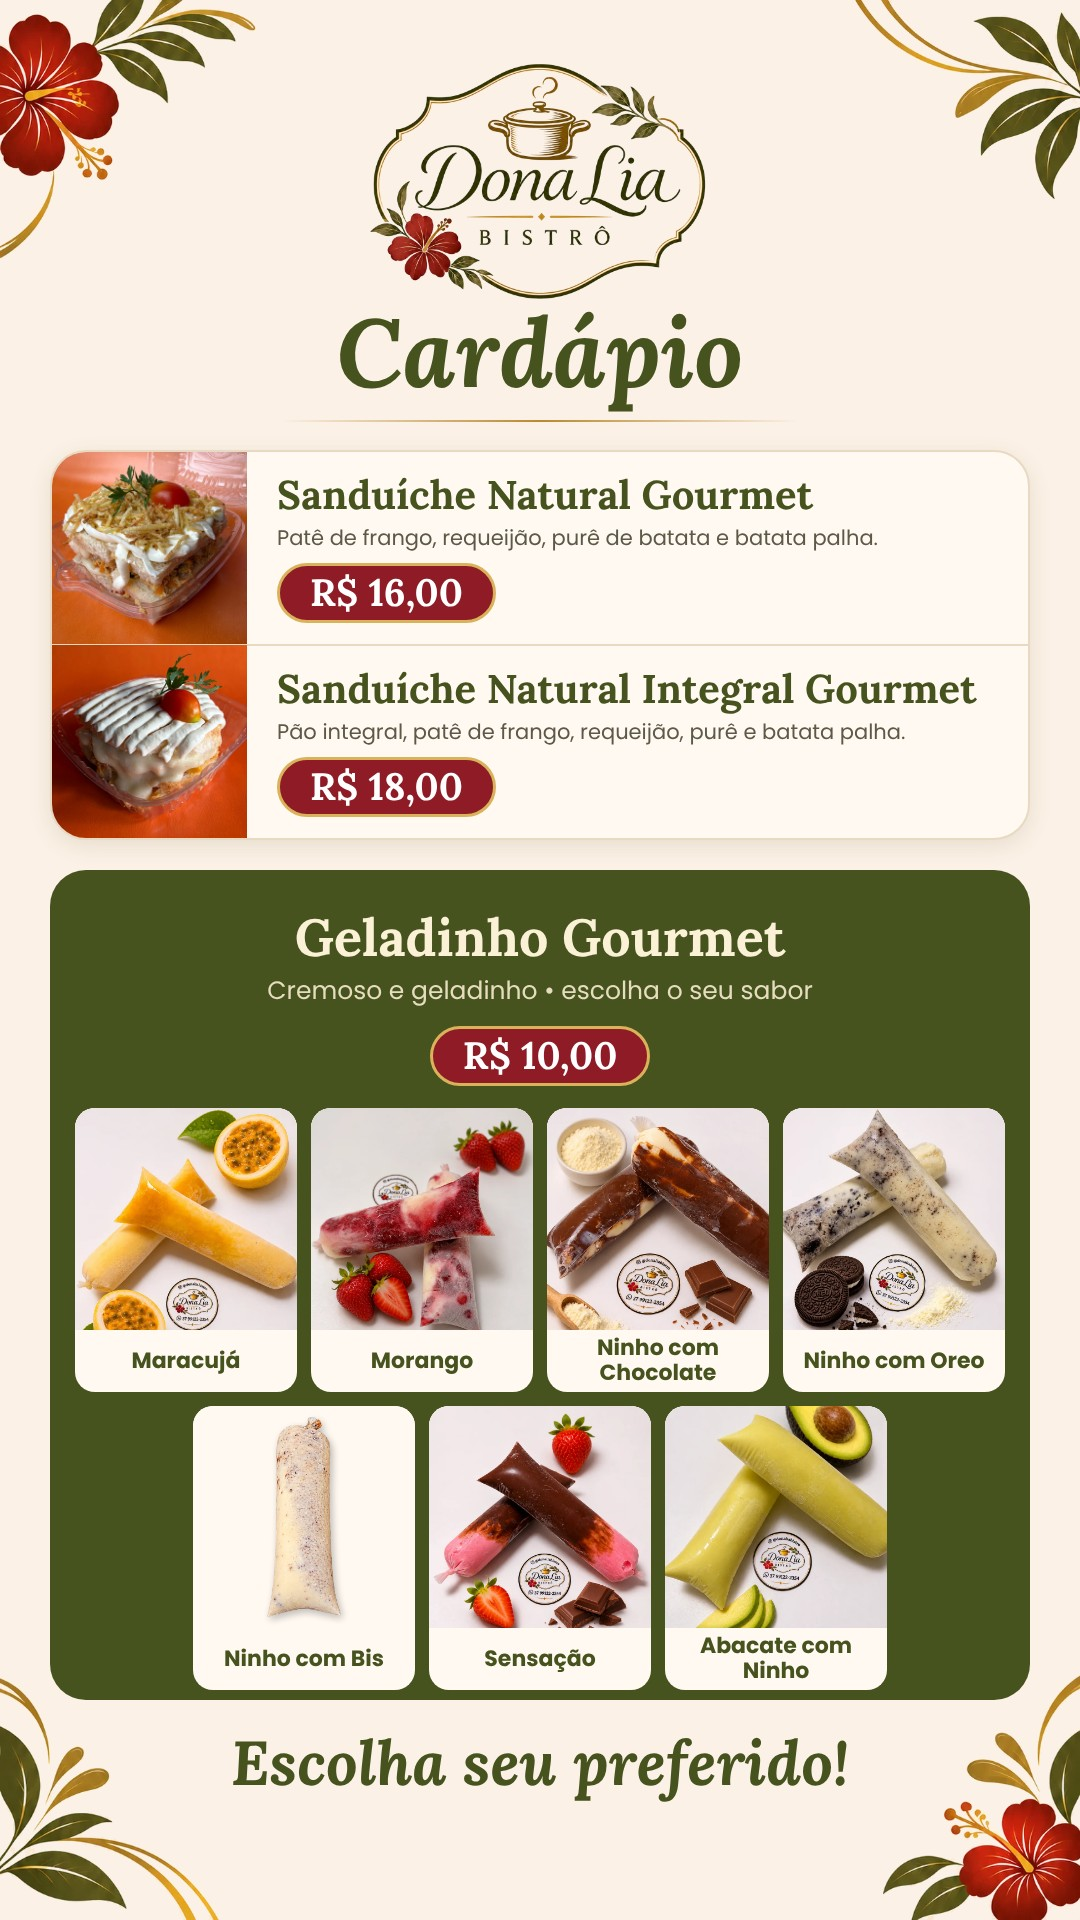
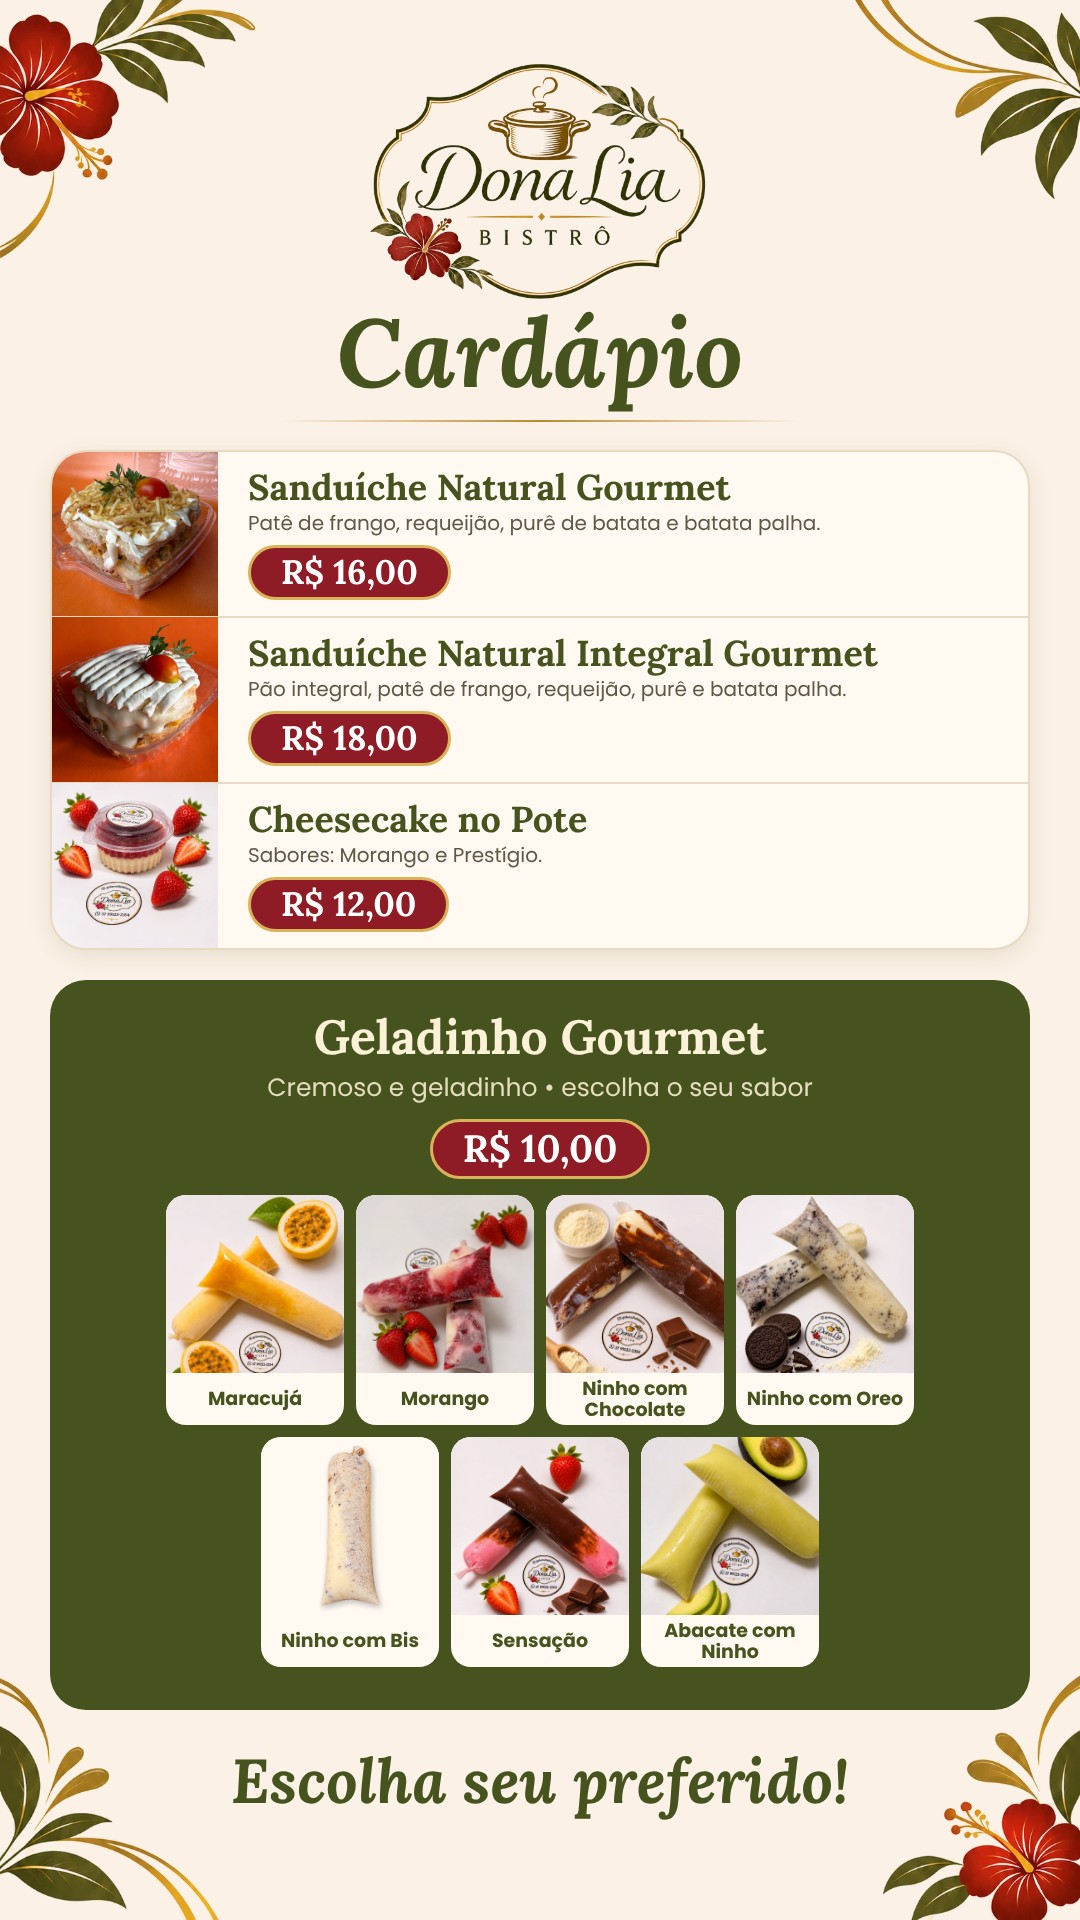
Cardápio (imagem), página Cardápio e Links com Cheesecake
Claude-Session: https://claude.ai/code/session_01L7RU4Qf6ipUkkZnfFHStMk

diff --git a/cardapio/index.html b/cardapio/index.html
@@ -2,8 +2,8 @@
 <html lang="pt-BR"><head><meta charset="utf-8">
 <title>Cardápio · DonaLia Bistrô</title>
 <meta name="viewport" content="width=device-width, initial-scale=1">
-<meta name="description" content="Sanduíche natural gourmet R$ 16, sanduíche natural integral gourmet R$ 18 e geladinho gourmet R$ 10. Peça pelo site.">
-<meta property="og:title" content="Cardápio · DonaLia Bistrô"><meta property="og:description" content="Sanduíche natural gourmet e geladinho gourmet.">
+<meta name="description" content="Sanduíche natural gourmet R$ 16, sanduíche natural integral gourmet R$ 18 e geladinho gourmet R$ 10 e cheesecake no pote R$ 12. Peça pelo site.">
+<meta property="og:title" content="Cardápio · DonaLia Bistrô"><meta property="og:description" content="Sanduíche natural gourmet, geladinho gourmet e cheesecake.">
 <meta property="og:type" content="website"><meta property="og:image" content="https://donalia-bistro.vercel.app/images/cardapio.jpg">
 <link rel="icon" href="../images/icon.png" type="image/png">
 <style>
@@ -12,6 +12,6 @@ img{display:block;width:100%;max-width:640px;height:auto}
 .b{position:sticky;bottom:0;width:100%;max-width:640px;padding:12px 16px calc(12px + env(safe-area-inset-bottom));background:linear-gradient(transparent,#FCF1E6 40%);text-align:center}
 .b a{display:block;background:#47531F;color:#fff;text-decoration:none;border-radius:99px;padding:14px 22px}
 </style></head><body>
-<img src="../images/cardapio.jpg" alt="Cardápio DonaLia Bistrô: sanduíche natural gourmet R$ 16,00; sanduíche natural integral gourmet R$ 18,00; geladinho gourmet R$ 10,00 nos sabores Maracujá, Morango, Ninho com Chocolate, Ninho com Oreo, Ninho com Bis, Sensação e Abacate com Ninho." width="1080" height="1920">
+<img src="../images/cardapio.jpg" alt="Cardápio DonaLia Bistrô: sanduíche natural gourmet R$ 16,00; sanduíche natural integral gourmet R$ 18,00; geladinho gourmet R$ 10,00 nos sabores Maracujá, Morango, Ninho com Chocolate, Ninho com Oreo, Ninho com Bis, Sensação e Abacate com Ninho; cheesecake no pote R$ 12,00 nos sabores Morango e Prestígio." width="1080" height="1920">
 <div class="b"><a href="../#pedido">Fazer meu pedido</a></div>
 </body></html>

diff --git a/links/index.html b/links/index.html
@@ -2,8 +2,8 @@
 <html lang="pt-BR"><head><meta charset="utf-8">
 <title>DonaLia Bistrô · Links</title>
 <meta name="viewport" content="width=device-width, initial-scale=1">
-<meta name="description" content="DonaLia Bistrô: sanduíche natural gourmet e geladinho gourmet. Peça pelo site ou fale com a gente.">
-<meta property="og:title" content="DonaLia Bistrô"><meta property="og:description" content="Sanduíche natural gourmet e geladinho gourmet. Peça pelo site.">
+<meta name="description" content="DonaLia Bistrô: sanduíche natural gourmet, geladinho gourmet e cheesecake. Peça pelo site ou fale com a gente.">
+<meta property="og:title" content="DonaLia Bistrô"><meta property="og:description" content="Sanduíche natural gourmet, geladinho gourmet e cheesecake. Peça pelo site.">
 <meta property="og:image" content="https://donalia-bistro.vercel.app/images/og.jpg">
 <link rel="icon" href="../images/icon.png" type="image/png">
 <link rel="stylesheet" href="https://fonts.googleapis.com/css2?family=Cormorant+Garamond:wght@600;700&family=DM+Sans:wght@500;700&display=swap">
